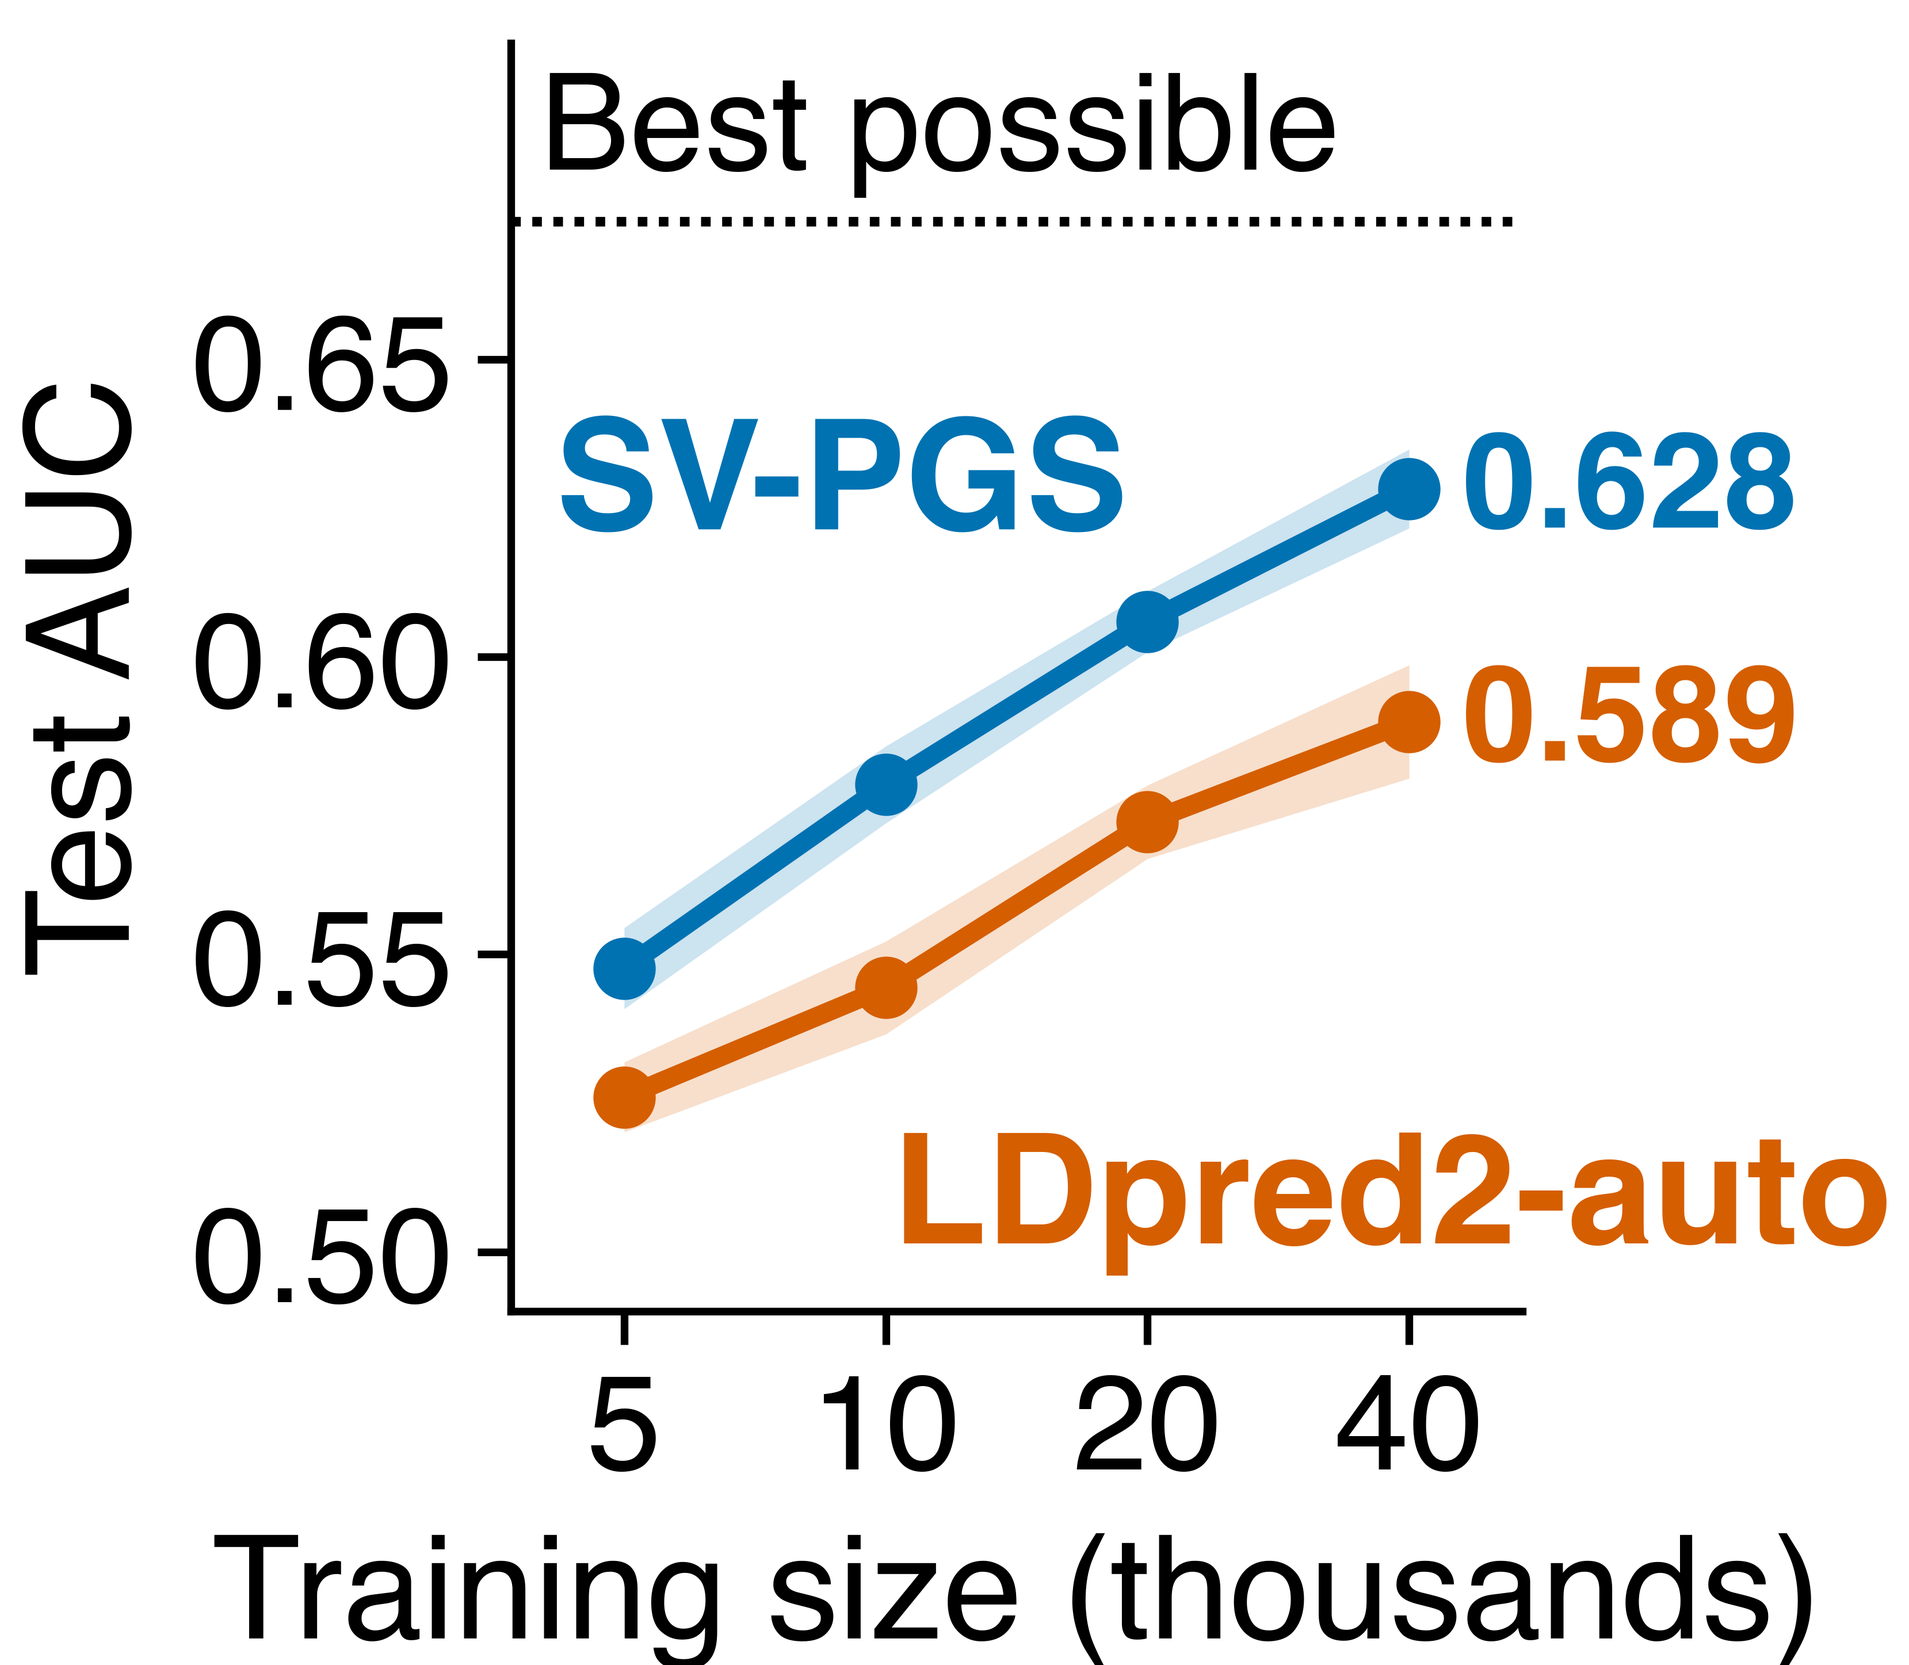
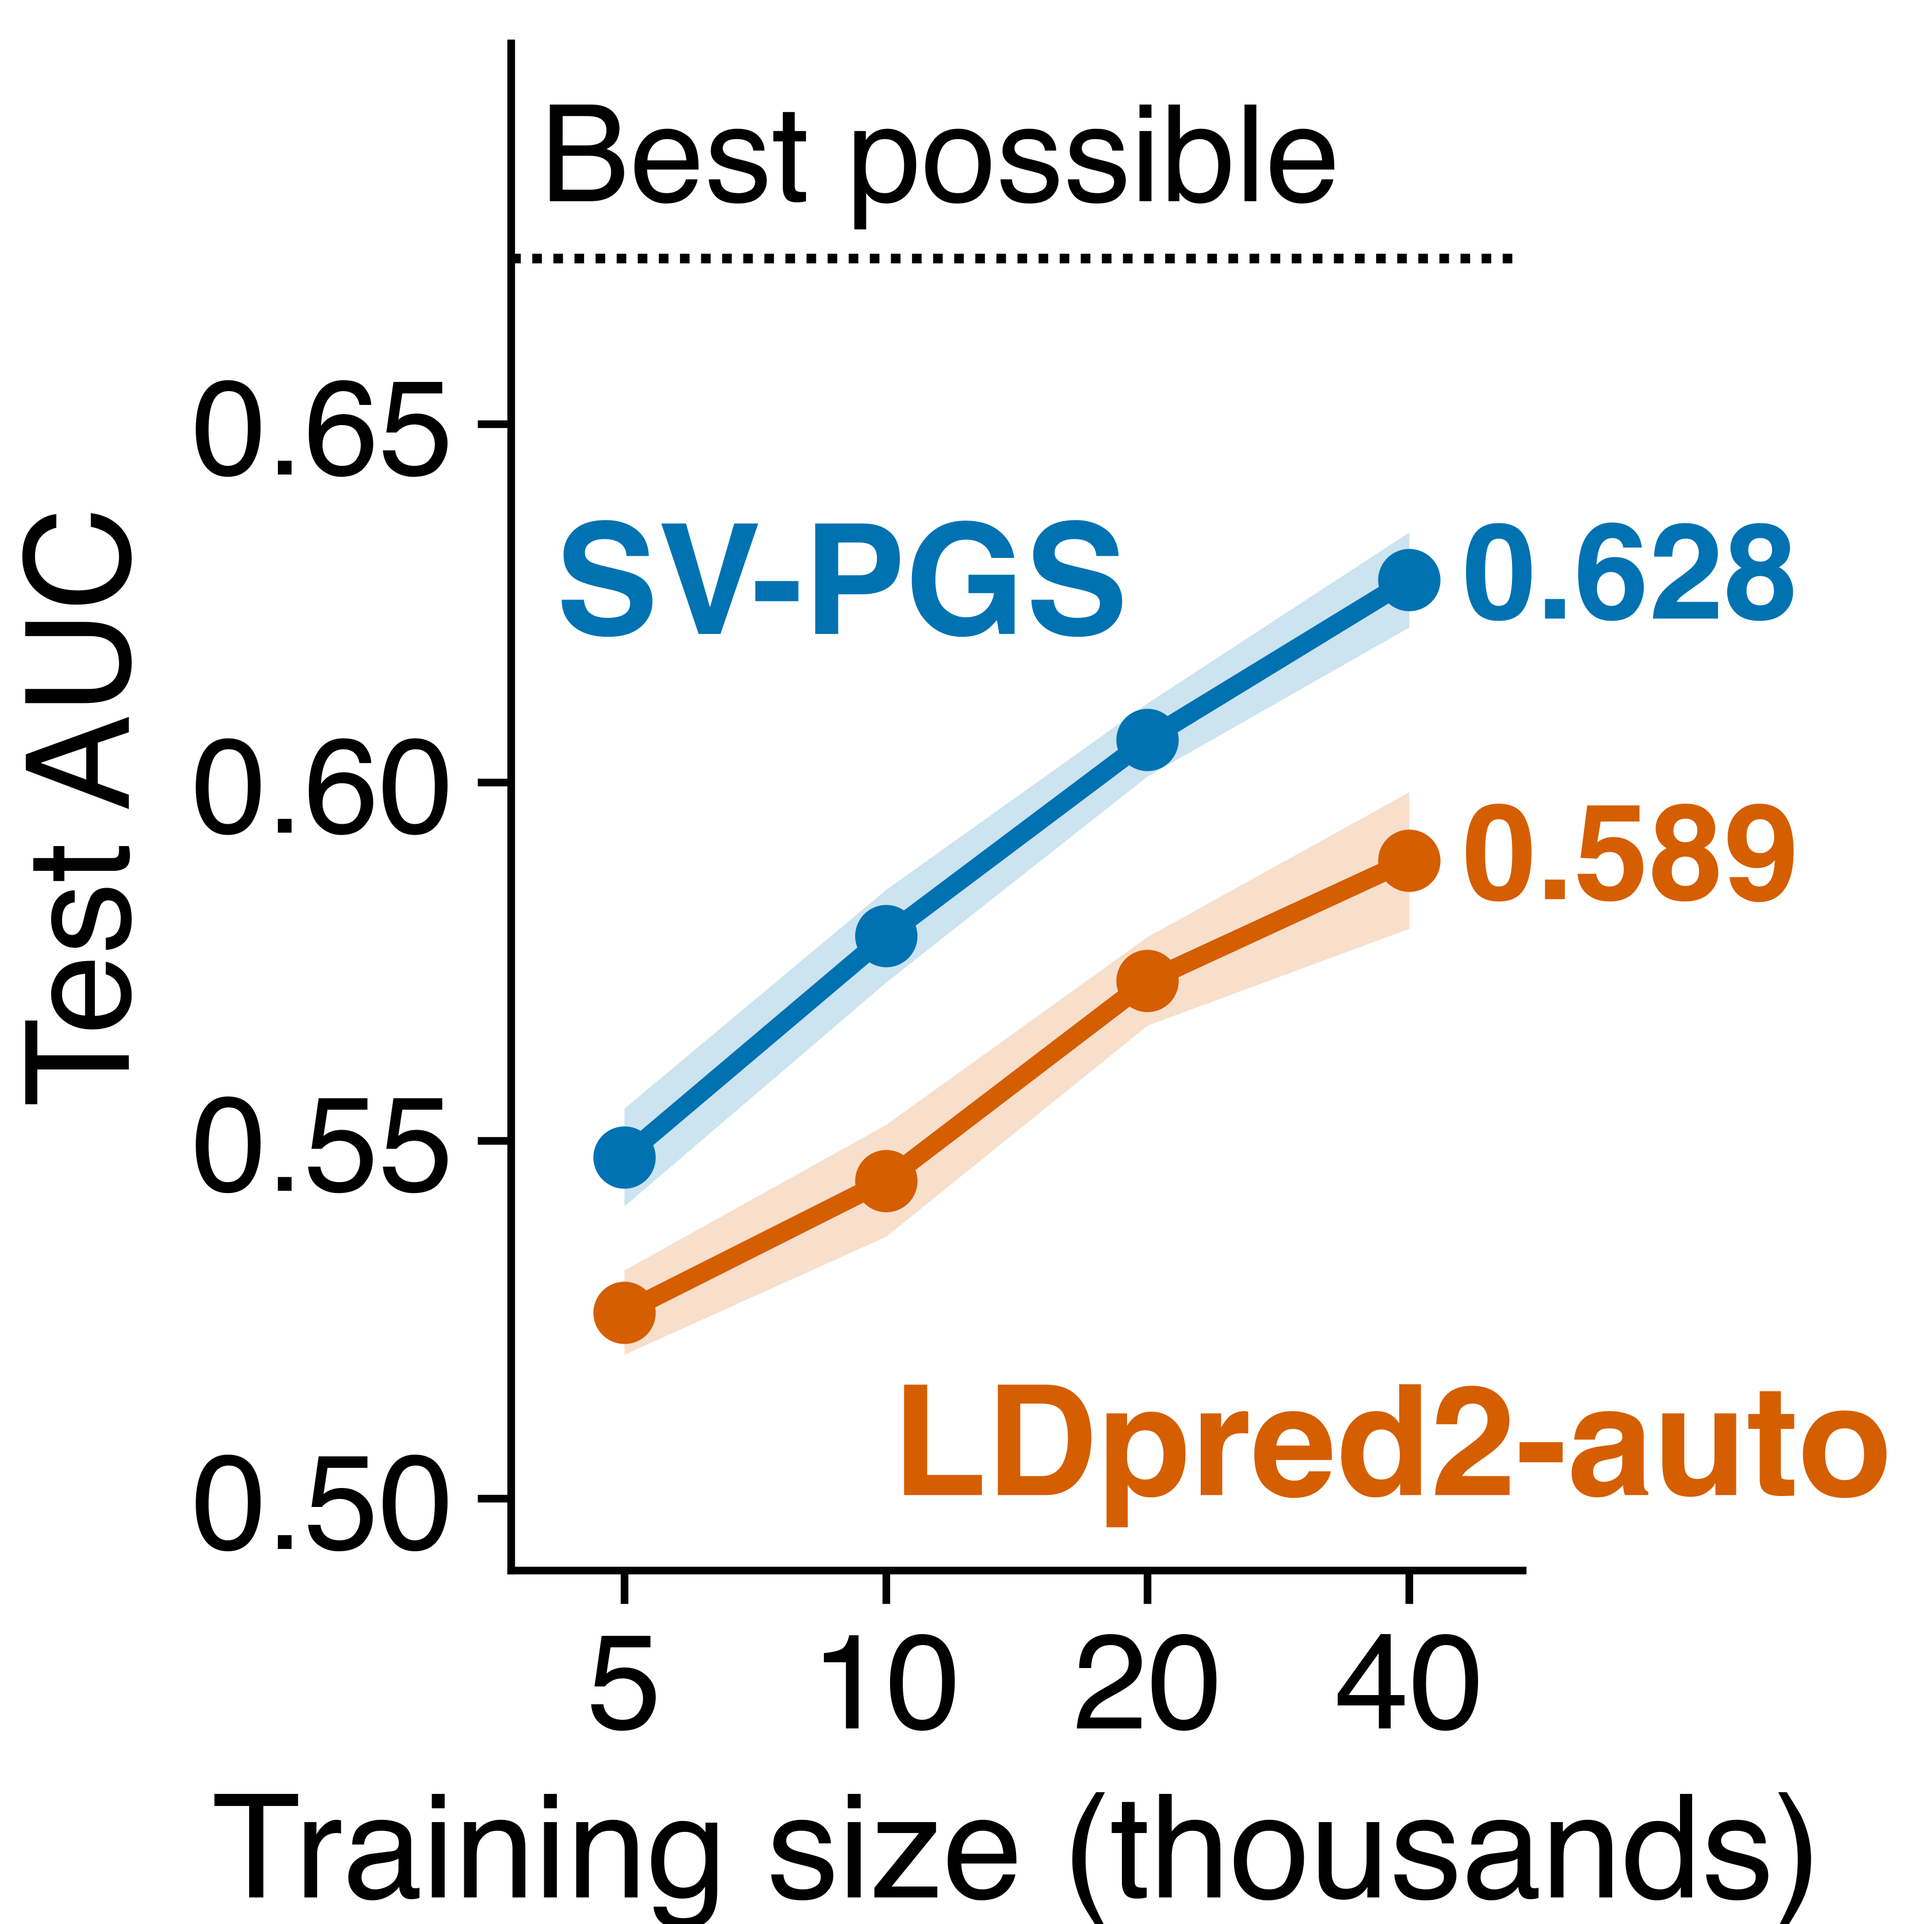
The poster's figures take the space its columns left empty (docs/poster/ashg2026/build_pptx.py, sim_gallery.py). The gaps under section bars, between blocks and before each bar go from 0.35, 0.3 and 0.5 in to 0.25, 0.2 and 0.4 in. The left column then has the 5.2 in its imputation figure is drawn at

diff --git a/docs/poster/ashg2026/sim_gallery.py b/docs/poster/ashg2026/sim_gallery.py
@@ -803,7 +803,7 @@ sources written beside their marks. A poster figure carries no legend and no tit
 figure's own labels, state its message."""
 POSTER_LINE, POSTER_MARK, POSTER_BAR = 8.0, 26.0, 6.0
 """Points: a data line's width, a mean's marker and an interval's line in the poster's figures."""
-POSTER_HEIGHT = 9.65
+POSTER_HEIGHT = 11.15
 """Inches: the height of the two figures side by side at the top of the poster's middle column."""
 POSTER_HALF = 11.06
 """Inches: the width each of those two figures is placed at (half of build_pptx.py's 22.92 in middle column less its

diff --git a/docs/poster/ashg2026/build_pptx.py b/docs/poster/ashg2026/build_pptx.py
@@ -70,7 +70,7 @@ SHIFTED_PITCH = 0.25
 BULLET_INDENT = 0.42
 AFTER = 14
 """Points of space after a bullet."""
-GAPS = {"bar": 0.35, "block": 0.3, "section": 0.5}
+GAPS = {"bar": 0.25, "block": 0.2, "section": 0.4}
 """Space under a section bar, between blocks of a section, and above the next bar (before the column is justified)."""
 JUSTIFY_LIMIT = 2.0
 """The most extra space a section break takes when a column is spread to the bottom margin."""
